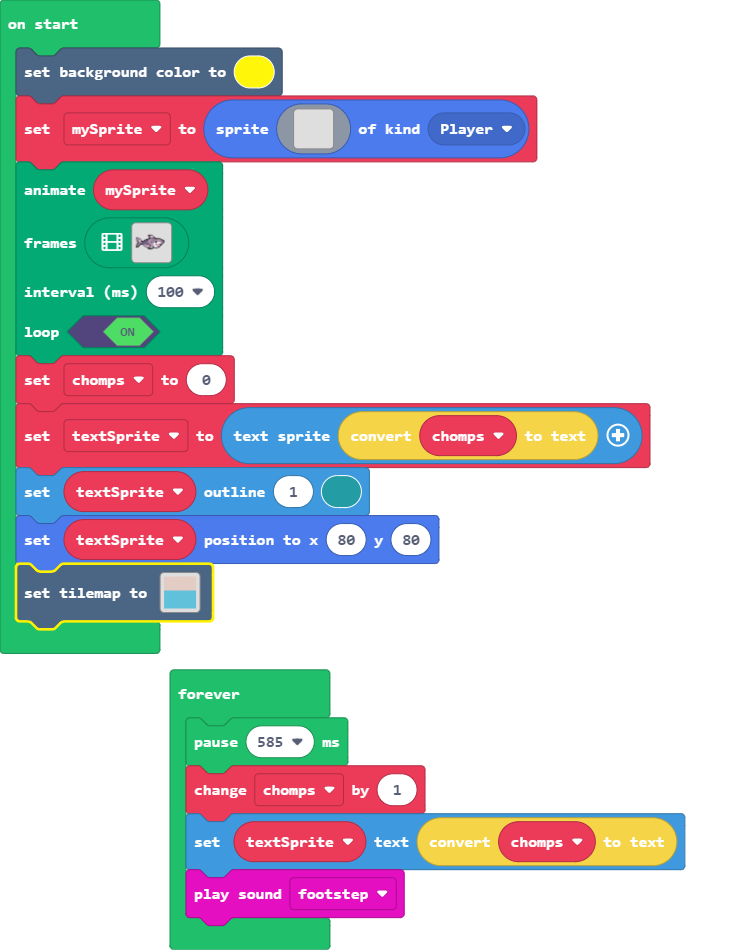
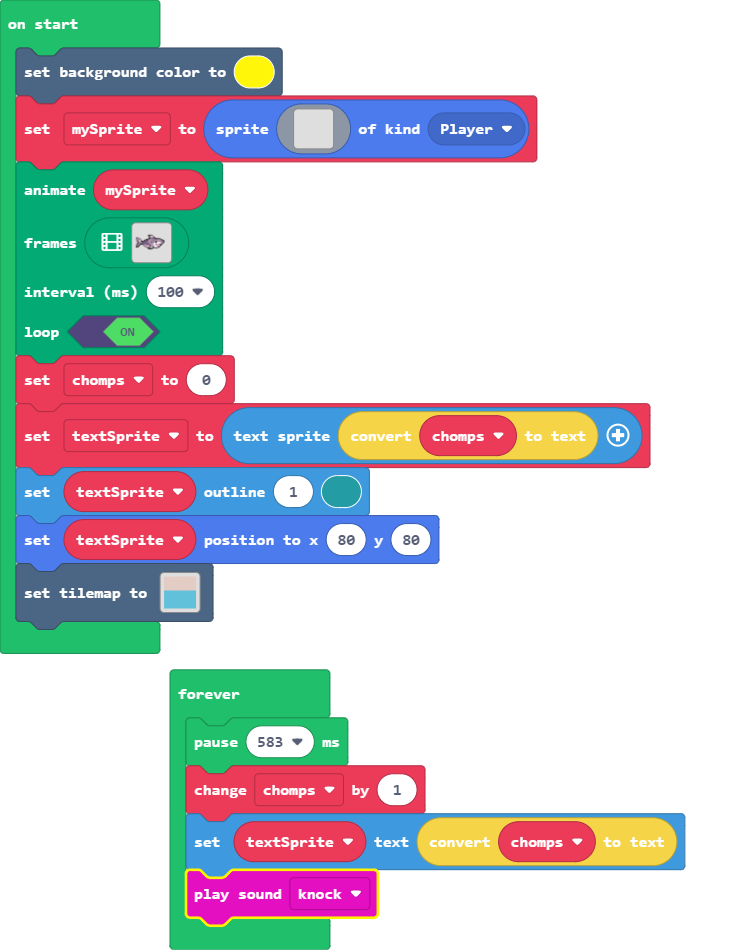
timing fix

Changed region(s): [[0.2497, 0.9158, 0.5617, 0.9768], [0.0, 0.58, 0.3121, 0.6411], [0.0312, 0.6411, 0.2809, 0.6716]]

diff --git a/main.ts b/main.ts
@@ -131,8 +131,8 @@ textSprite.setOutline(1, 6)
 textSprite.setPosition(80, 80)
 tiles.setTilemap(tilemap`level1`)
 forever(function () {
-    pause(585)
+    pause(583)
     chomps += 1
     textSprite.setText(convertToText(chomps))
-    music.footstep.play()
+    music.knock.play()
 })
